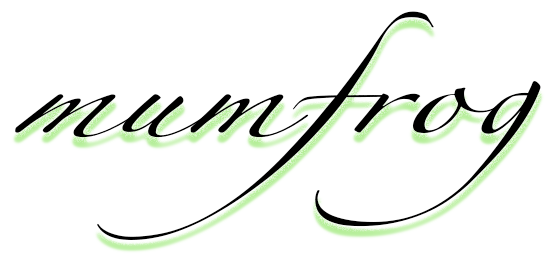
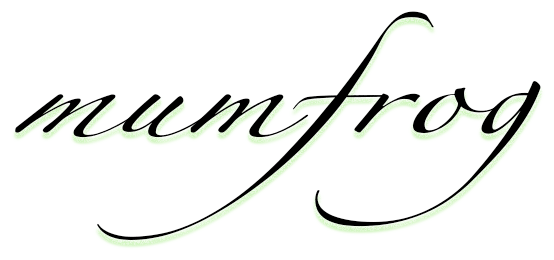
set color theme (documented in styles.css)

diff --git a/styles.css b/styles.css
@@ -1,3 +1,15 @@
+/* color theme:
+  light green: #b4e19e
+  bright green: #09B40D
+  mid green: #419427
+  bright blue: #183e90
+  med. blue: #607D8B
+  dark blue: #192644
+  charcoal: #333
+  mid gray: #444
+  gray: #eee
+*/
+
 /* #docregion , quickstart, toh */
 /* Master Styles */
 h1 {
@@ -10,23 +22,20 @@ h2, h3 {
   font-family: Cambria, Georgia;
   font-weight: lighter;
 }
-body {
-  margin: 2em;
-}
 /* #enddocregion quickstart */
 body, input[text], button {
   color: #888;
   font-family: Cambria, Georgia;
 }
 a {
-  color: #183e90;
+  color: #607D8B;
 }
 a:focus {
   text-decoration: none;
 }
 a:focus, a:hover {
   color: #192644;
-  text-shadow: 1px 1px 1px #607D8B;
+  text-shadow: 0 0 0.05em #607D8B;
 }
 
 img {

diff --git a/app/app.component.css b/app/app.component.css
@@ -61,20 +61,13 @@ body {
   padding-left: 1em;
   font-size: 16px;
   font-weight: bold;
-  color: #333; /* IE8 proofing */
-  color: rgba(30,30,30,.75);
+  color: #555; /* IE8 proofing */
   background-color: transparent;
-}
-.masthead-nav > li > a:hover {
-  color: #01BF01;
 }
 .masthead-nav > li > a:focus,
 .masthead-nav > li > a:hover {
-  text-shadow: 1px 1px 2px black, 0 0 1em #01BF01, 0 0 0.2em #01BF01;
-  color: white;
-}
-.masthead-nav > li > a:hover {
-  text-shadow: 1px 2px 2px black, 0 0 1em #01BF01, 0 0 0.4em #01BF01;
+  text-shadow: 0px 0px 0.5em #b4e19e ;
+  color: #419427;
 }
 
 @media (min-width: 768px) {

diff --git a/app/artworks.component.css b/app/artworks.component.css
@@ -40,8 +40,7 @@
   background-color: transparent;
 }
 .project-wrapper:hover {
-  background-color: #607D8B;
-  background-color: rgba(96,125,139,.5);
+  background-color: #b4e19e;
 }
 .project-panel {
   text-align: center;
@@ -51,7 +50,7 @@
   padding: 5px;
 }
 .project-panel:hover {
-  color: 607D8B;
+  color: #419427;
 }
 .project-panel img {
   width: 100%;

diff --git a/app/projects.component.css b/app/projects.component.css
@@ -17,8 +17,7 @@
   background-color: transparent;
 }
 .project-wrapper:hover {
-  background-color: #607D8B;
-  background-color: rgba(96,125,139,.5);
+  background-color: #b4e19e;
 }
 .project-panel {
   text-align: center;
@@ -28,7 +27,7 @@
   padding: 5px;
 }
 .project-panel:hover {
-  color: 607D8B;
+  color: #419427;
 }
 .project-panel img {
   width: 100%;

diff --git a/app/dashboard.component.css b/app/dashboard.component.css
@@ -16,8 +16,7 @@ h3 {
     padding: 20px;
     text-align: center;
     color: #eee;
-    background-color: #09B40D;
-    background-color: rgba(9,180,13,.5);
+    background-color: #b4e19e;
     border-radius: 2px;
 }
 h4 {

diff --git a/app/about.component.html b/app/about.component.html
@@ -12,7 +12,9 @@
   <hr>
   <div class='row content'>
     <div class="row">
-      <div><h2>This Site</h2></div>
+      <div>
+        <
+      </div>
     </div>
     <div class="row">
       <div><h2>Me</h2></div>
